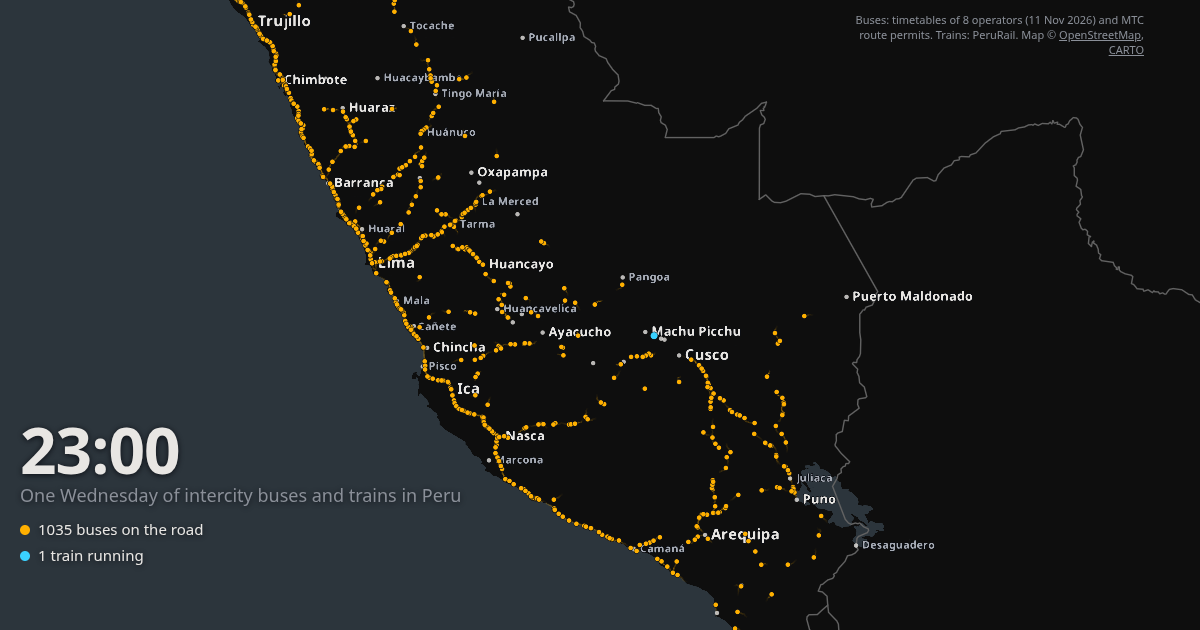
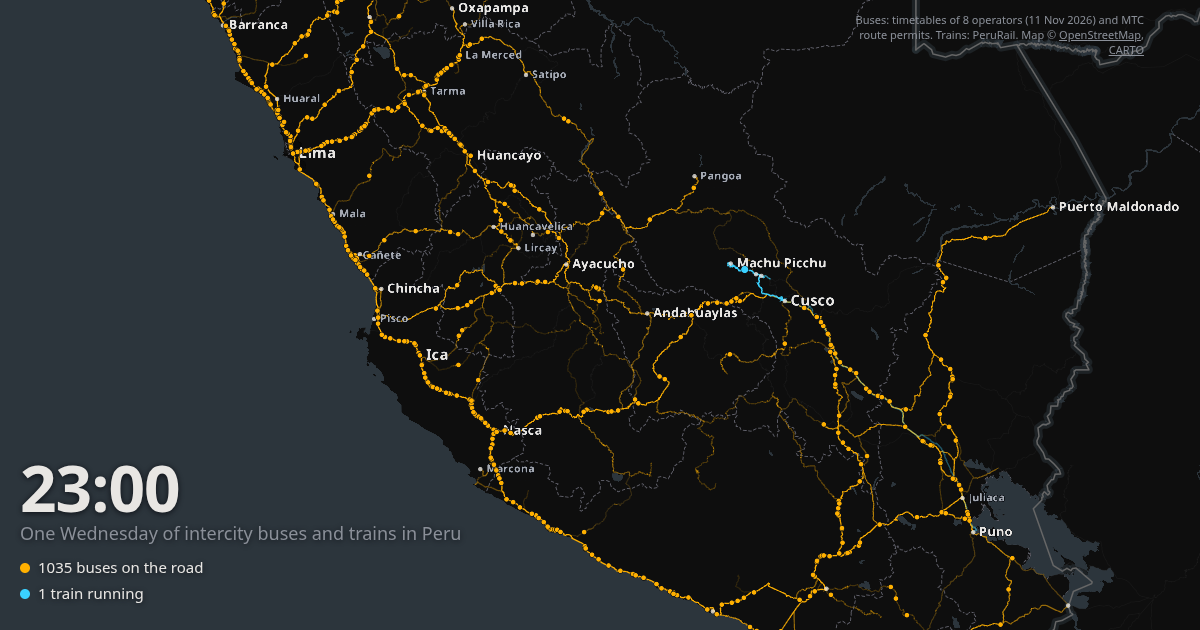
feat(blog): show the bus corridors and rail lines on the Peru post cover
The cover is now rendered at the widget's default zoom with every route drawn
as a faint line, brighter the more trips use it. The widget gets the same
layer behind an opt-in ?routes parameter.

diff --git a/public/embeds/peru-24h/app.js b/public/embeds/peru-24h/app.js
@@ -90,6 +90,17 @@ maplibregl.workerUrl = new URL("vendor/maplibre-gl-csp-worker.js", location.href
 
 Promise.all(["trips.json", "trains.json", "cities.json"].map(f => fetch(f).then(r => r.json()))).then(([busData, trains, places]) => {
   let buses = expand(busData);
+  // ?routes: every bus route as a faint line, brighter the more trips use it, so the main corridors show.
+  const usage = new Map();
+  for (const t of busData.trips) usage.set(t.route, (usage.get(t.route) || 0) + 1);
+  const routeLines = params.has("routes") ? new deck.PathLayer({
+    id: "routes", data: [...usage].map(([route, n]) => ({ path: busData.routes[route], n })),
+    getPath: d => d.path, getColor: d => [255, 176, 0, Math.min(25 + 8 * d.n, 150)], widthMinPixels: 1.2,
+    capRounded: true, jointRounded: true,
+  }) : null;
+  const trackLines = params.has("routes") ? new deck.PathLayer({
+    id: "tracks", data: trains, getPath: d => d.path, getColor: [58, 209, 255, 90], widthMinPixels: 1.5,
+  }) : null;
   for (const b of buses) { b.fromName = places.names[b.from] || b.from; b.toName = places.names[b.to] || b.to; }
   for (const r of trains) { r.fromName = r.from; r.toName = r.to; }
   const cities = places.cities.filter(c => c.n >= 5);
@@ -205,7 +216,7 @@ Promise.all(["trips.json", "trains.json", "cities.json"].map(f => fetch(f).then(
     document.getElementById("ntrain").textContent = onTrain.length;
     document.getElementById("ltrain").textContent = onTrain.length === 1 ? T.trainOne : T.trains;
     overlay.setProps({ layers: [
-      trail("bus-trails", buses, BUS), trail("train-trails", trains, TRAIN), ...cityLayers(),
+      routeLines, trackLines, trail("bus-trails", buses, BUS), trail("train-trails", trains, TRAIN), ...cityLayers(),
       dots("buses", onBus, BUS, record ? 3 : 2.6), dots("trains", onTrain, TRAIN, record ? 4.5 : 3.8),
     ] });
     requestAnimationFrame(frame);

diff --git a/public/embeds/peru-24h/index.html b/public/embeds/peru-24h/index.html
@@ -7,7 +7,7 @@
 <link href="vendor/maplibre-gl.css" rel="stylesheet">
 <script src="vendor/maplibre-gl-csp.js"></script>
 <script src="vendor/deck.gl.min.js"></script>
-<script src="app.js?v=294c3b59" defer></script>
+<script src="app.js?v=bcd177a6" defer></script>
 <style>
   :root { --bg: #0b0e14; --fg: #e8e6e3; --muted: #8a8f98; --panel: #1c222c; --line: #2c3440; --bus: #ffb000; --train: #3ad1ff; }
   html, body { margin: 0; height: 100%; overflow: hidden; background: var(--bg); color: var(--fg); font-family: system-ui, sans-serif; }
